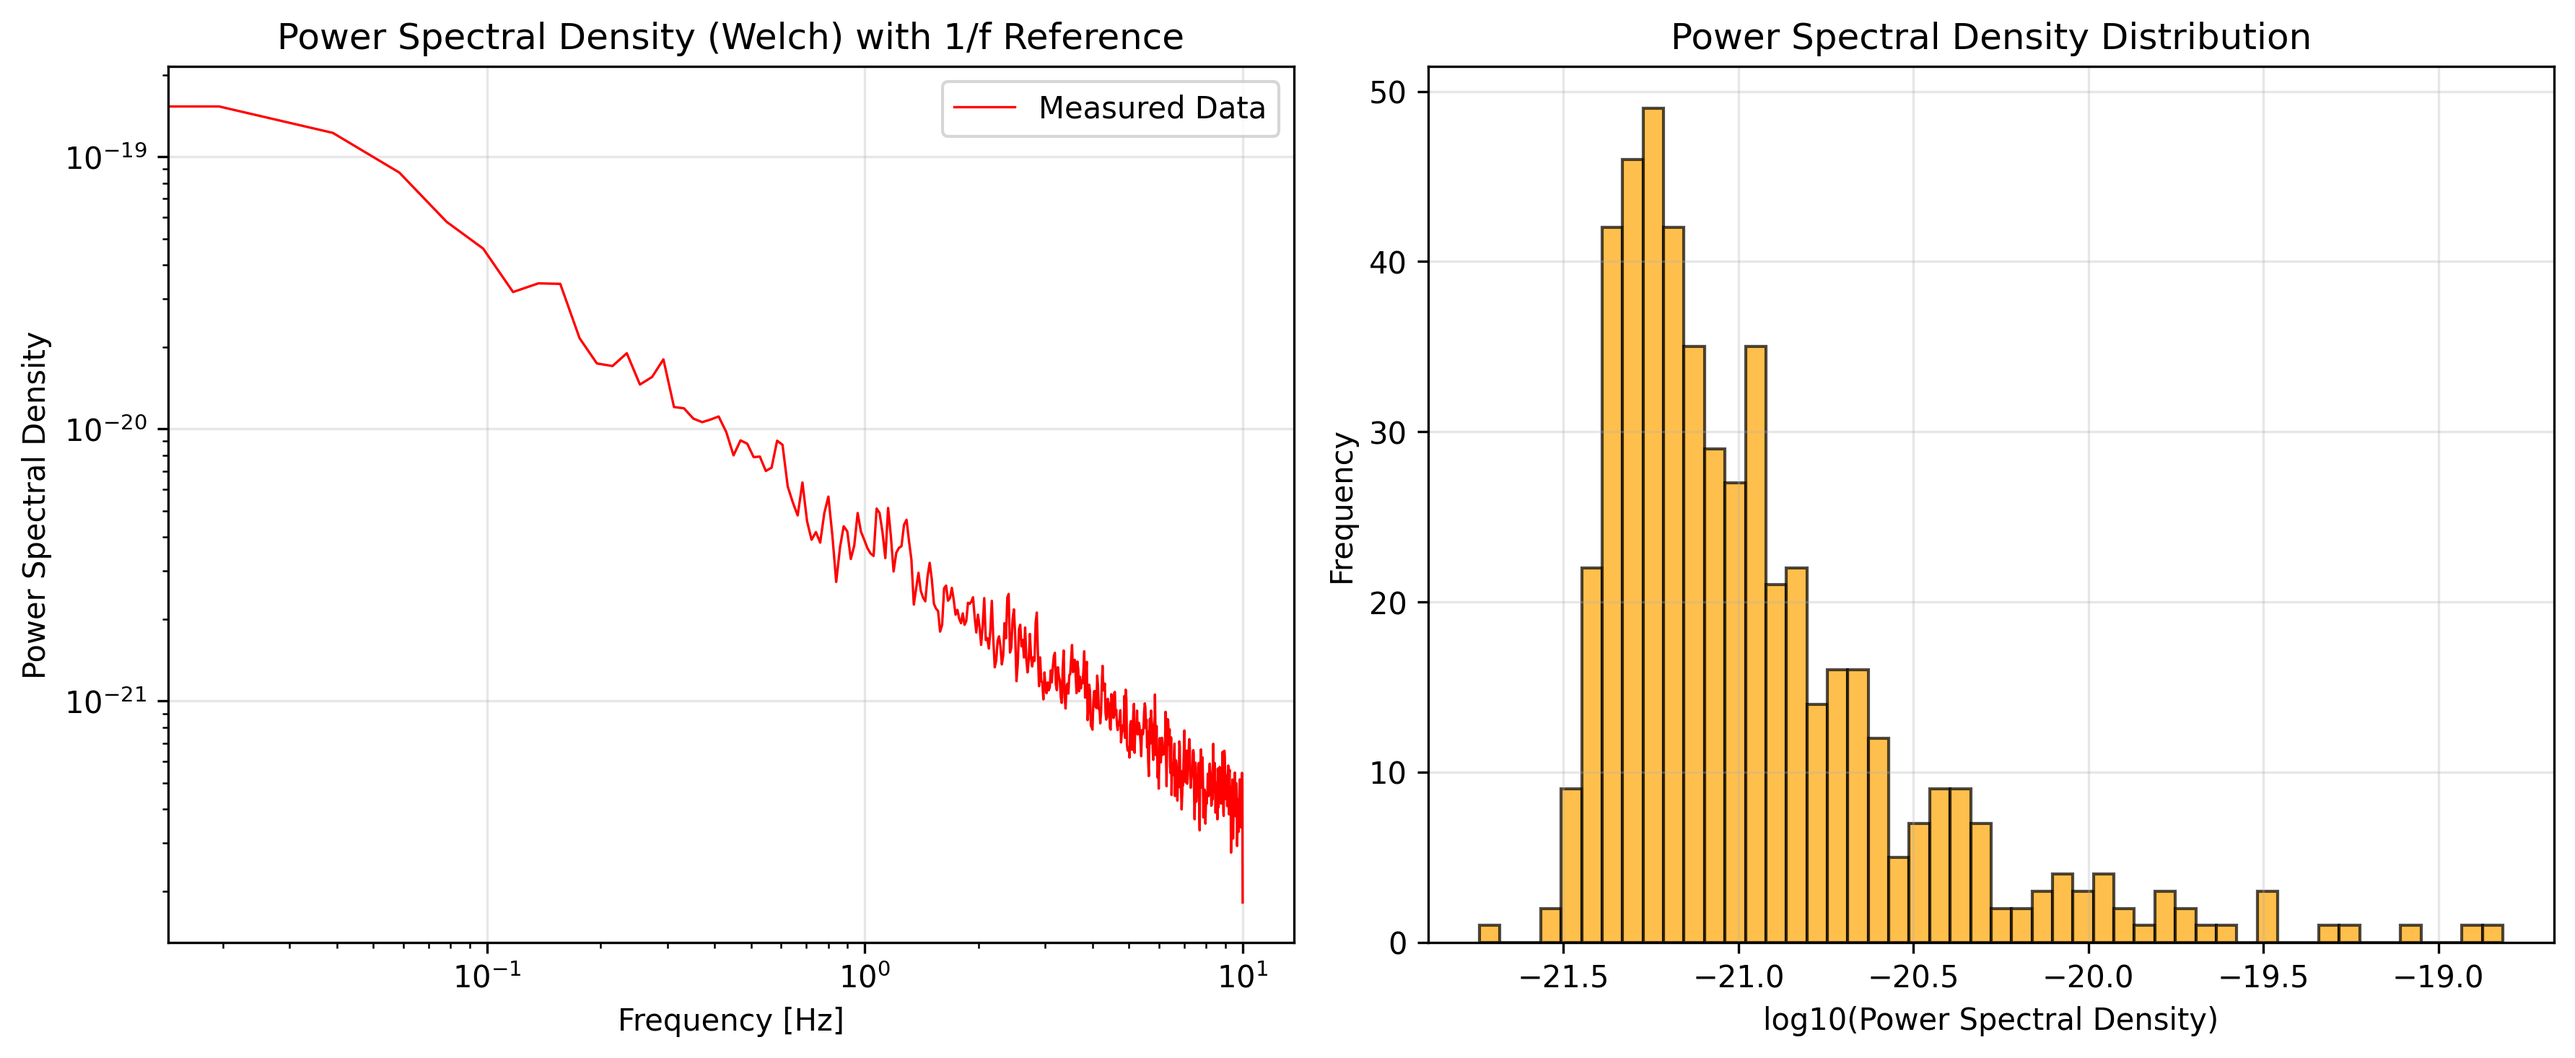
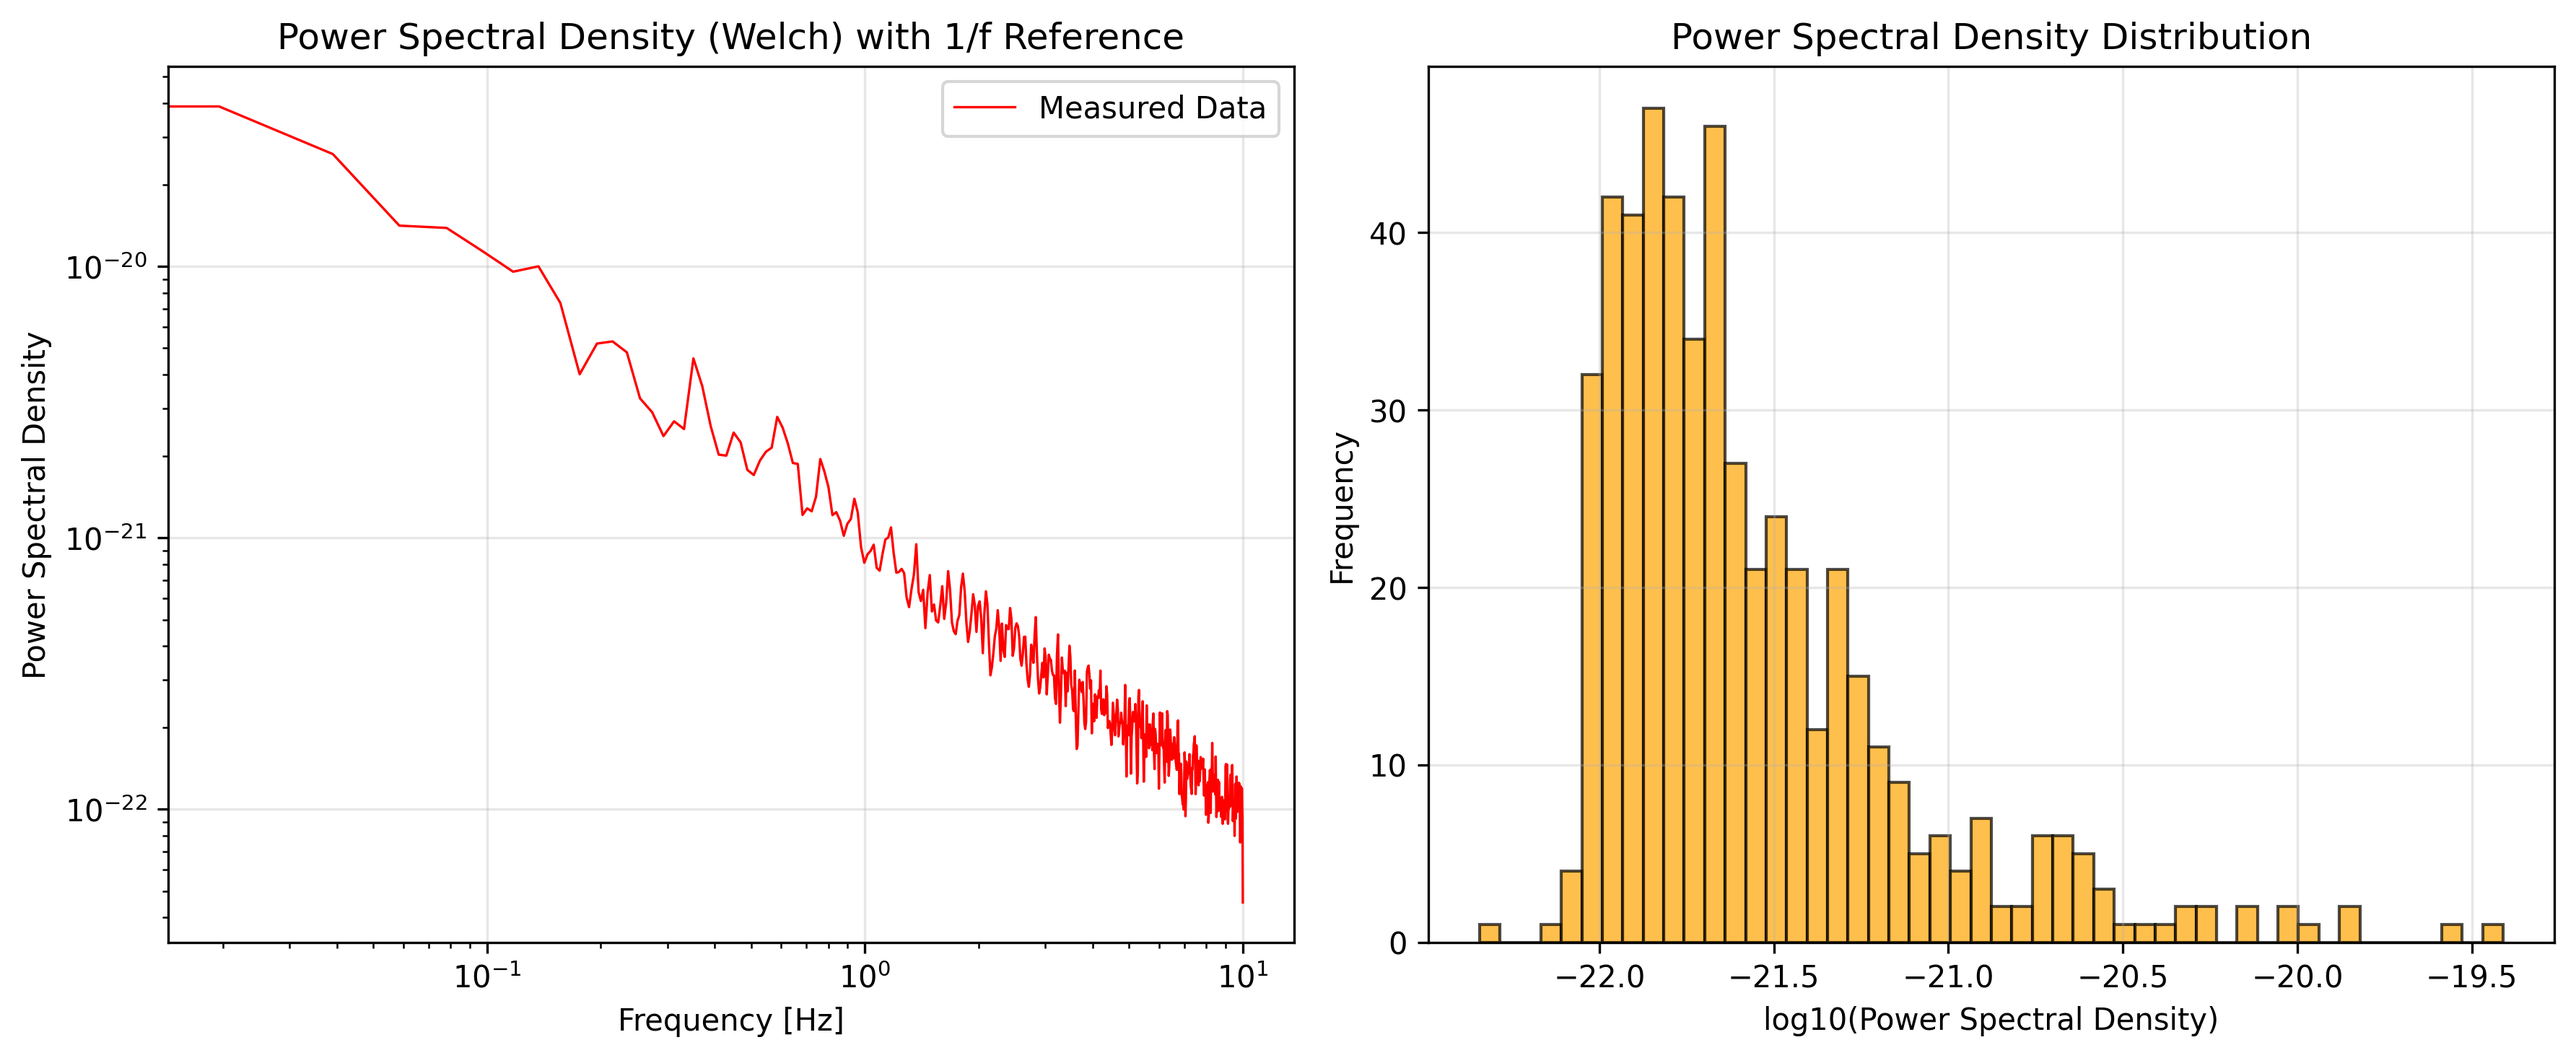
Add noise amplitude and base signal parameters
The charge noise simulation now accepts base_signal and fluctuation_amplitude as parameters, allowing more flexible control of the generated signal. Updated plots reflect these changes.

diff --git a/charge_noise_simulation.py b/charge_noise_simulation.py
@@ -18,7 +18,7 @@ import colorednoise as cn
 # Set random seed for reproducible results
 # np.random.seed(42)
 
-def generate_charge_noise(n_samples, dt, method='white'):
+def generate_charge_noise(n_samples, dt, method='white', base_signal=3e-10, fluctuation_amplitude=2e-10):
     """Generate charge noise time series"""
     
     # Parameter settings
@@ -31,12 +31,6 @@ def generate_charge_noise(n_samples, dt, method='white'):
     print(f"Sampling interval: {dt*1000:.2f} milliseconds")
     print(f"Total time: {total_time:.3f} seconds")
     print(f"Sampling frequency: {1/dt:.0f} Hz")
-    
-    # Generate base signal (can be DC bias)
-    base_signal = 3e-10  # Base bias
-    fluctuation_amplitude = 2e-10
-    
-    # Generate different types of noise
     
     # 1. White noise (Gaussian noise)
     white_noise = np.random.normal(0, fluctuation_amplitude, n_samples)
@@ -152,7 +146,11 @@ n_samples = 20000
 dt = 50e-3  # 50 milliseconds
 
 # Generate charge noise
-t, signal_with_noise, white_noise, pink_noise, base_signal = generate_charge_noise(n_samples, dt, method='pink')
+base_signal = 3e-10
+fluctuation_amplitude = 1e-10
+
+# Generate charge noise
+t, signal_with_noise, white_noise, pink_noise, base_signal = generate_charge_noise(n_samples, dt, method='pink', base_signal=base_signal, fluctuation_amplitude=fluctuation_amplitude)
     
 # Plot time series
 plot_time_series(t, signal_with_noise, white_noise, pink_noise)
